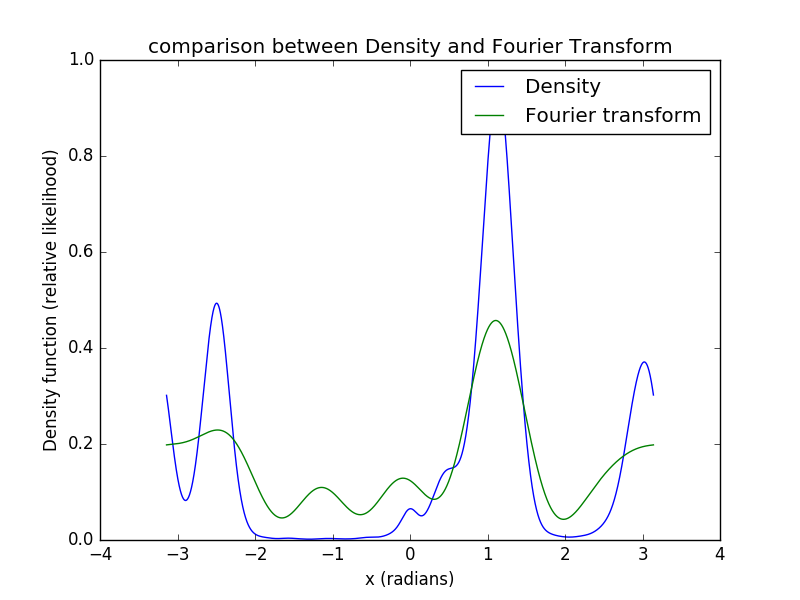
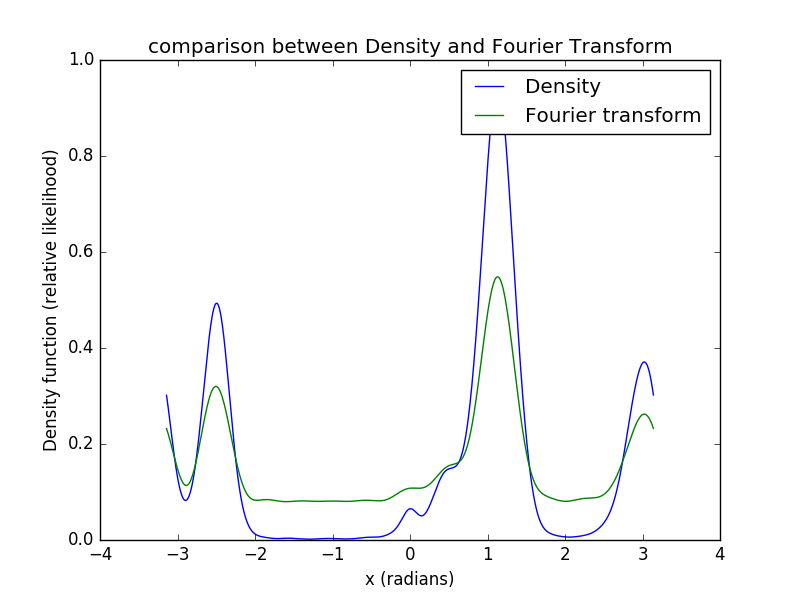
check more terms for fourier fit of density kde

diff --git a/single-molecule-property-generation/torsion_fitting/fitting_example.py b/single-molecule-property-generation/torsion_fitting/fitting_example.py
@@ -86,7 +86,7 @@ def ft(x, cn, Nh):
    return f.sum()+cn[0]
 
 # generate Fourier series (complex)
-Ns = 6 # needs to be adjusted 
+Ns = 12 # needs to be adjusted 
 cf = np.zeros(Ns+1,dtype=complex)
 for i in range(Ns+1):
     cf[i] = cn(i,pmf)
@@ -94,6 +94,8 @@ for i in range(Ns+1):
 cfdist = np.zeros(Ns+1,dtype=complex)
 for i in range(Ns+1):
     cfdist[i] = cn(i,y)
+
+print cfdist
  
 y1 = np.array([ft(xi,cf,Ns).real for xi in x])  # plot the fourier series approximation.
 plt.figure(2)
@@ -106,6 +108,7 @@ plt.ylabel('Potential of Mean Force (kT)')
 plt.savefig('PMFfitFourier.png')
 
 y1dens = np.array([ft(xi,cfdist,Ns).real for xi in x])  # plot the fourier series approximation.
+print y1dens
 plt.figure(7)
 plt.plot(x,y, label='Density')
 plt.plot(x,y1dens, label='Fourier transform')
@@ -114,7 +117,7 @@ plt.legend()
 plt.xlabel('x (radians)')
 plt.ylabel('Density function (relative likelihood)')
 plt.savefig('DensityfitFourier.png')
-
+sys.exit()
 # OK, Fourier series works pretty well.  But we actually want to do a
 # linear least square fit to a fourier series, since we want to get
 # the coefficients out.  Let's use the standard LLS formulation with
